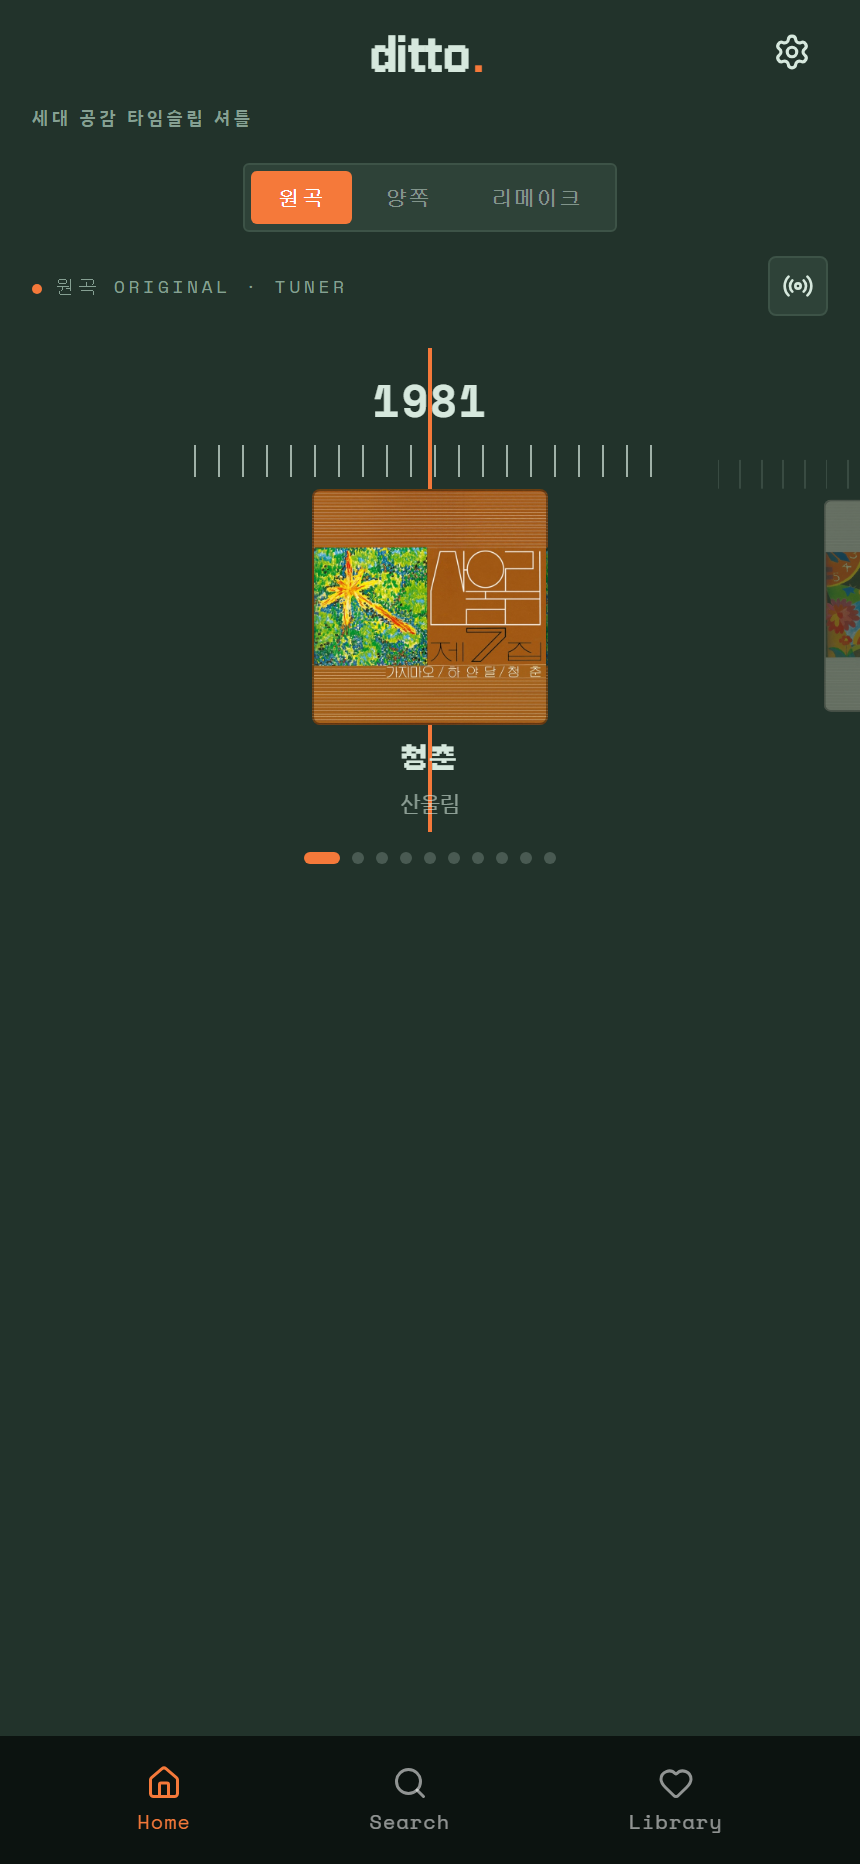
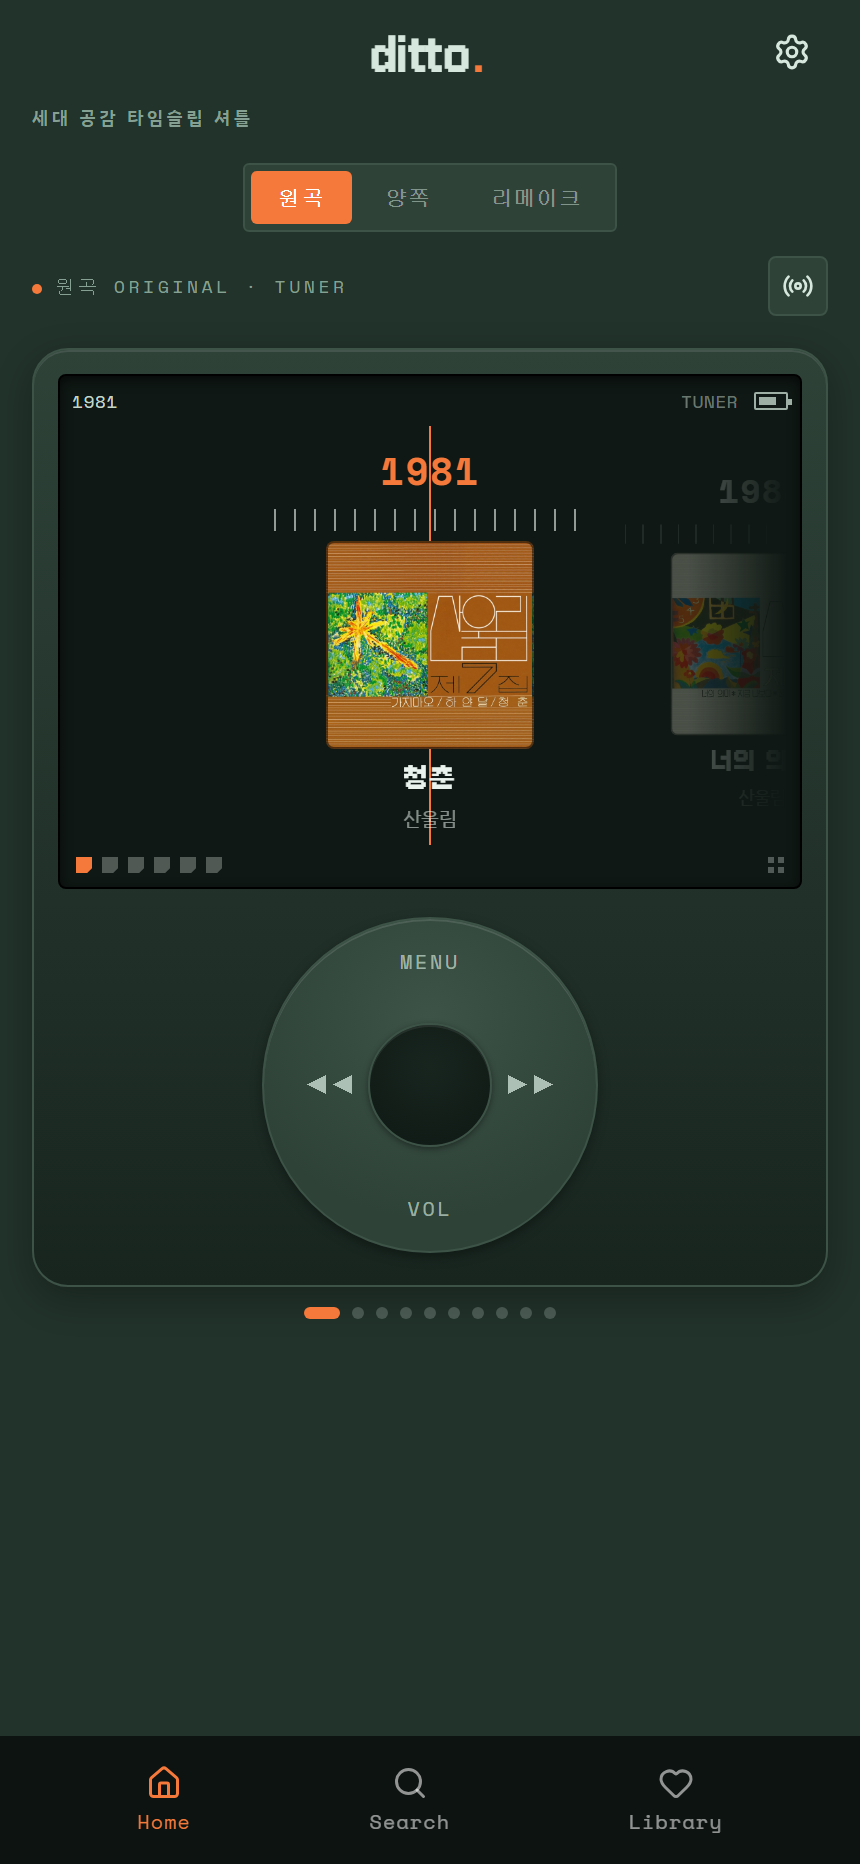
docs: MP3 기기 리디자인 기록 + 스크린샷 갱신
- '10. TUNER 를 휴대용 MP3 로' 절 추가. 왜 이 형태가 TUNER 의 은유를 보강하는지,
  왜 색은 빌리지 않았는지(INVERT 결정을 기기 하나 때문에 되돌릴 수 없다),
  MENU·VOL 을 장식으로 남긴 이유, 레일 중첩 구조 변경까지.
- rAF 버그를 '환경 탓'으로 넘길 뻔했던 과정도 남긴다 — 배경 탭에서 그대로
  재현되는 진짜 버그였다.
- 튜너·윈앰프 스크린샷 갱신.

Changed region(s): [[0.0605, 0.1867, 1.0, 0.5912], [0.3628, 0.6845, 0.6349, 0.7157], [0.4837, 0.6223, 0.514, 0.6534]]

diff --git a/MAKING-OF.md b/MAKING-OF.md
@@ -24,12 +24,12 @@
 ### 원곡 — RETRO
 
 같은 초록의 어두운 끝. 픽셀 서체(Galmuri), 각진 모서리, 그레인, 하드웨어 디테일.
-목록 레이아웃은 **WINAMP · TUNER 둘**이다.
+목록 레이아웃은 **TUNER(기본) · WINAMP 둘**이다.
 
-| 플레이어 | 튜너 |
+| 플레이어 | 튜너 — 휴대용 MP3 |
 |:--:|:--:|
 | <img src="docs/screenshots/02-player-retro.png" width="230"> | <img src="docs/screenshots/08-home-tuner.png" width="230"> |
-| 사각 페이더 캡 · 카세트 오버레이 | 연도가 곧 주파수 — 이 앱에서 가장 직접적인 시간 은유 |
+| 사각 페이더 캡 · 카세트 오버레이 | 바디에 파묻힌 LCD + 클릭휠. 연도가 곧 주파수 |
 
 ### WINAMP 스킨
 
@@ -423,7 +423,73 @@ chrome --headless=new --force-device-scale-factor=2
 
 ---
 
-## 10. 남은 것
+## 10. TUNER 를 휴대용 MP3 로
+
+TUNER 를 원곡 모드의 **기본** 레이아웃으로 올리면서, 실물 기기를 레퍼런스로 다시 그렸다.
+레퍼런스는 2000년대 중반 보급형 MP3 플레이어 — 아이팟 나노를 따라 만든 그 물건이다.
+알루미늄 바디에 작은 LCD 가 파묻히고, 그 아래 **클릭휠**이 붙는다.
+
+이 구조가 TUNER 와 잘 맞는 이유가 있다. 원래 TUNER 는 "연도 = 주파수"라는 은유였는데,
+평평한 가로 목록이라 다이얼이라는 느낌이 약했다. 클릭휠은 **튜닝 노브 그 자체**다.
+빌린 형태가 원래 있던 은유를 보강한다.
+
+```
+┌──────────────────────────┐
+│ ┌──────────────────────┐ │  ← 파묻힌 LCD
+│ │ 1981      TUNER  ▮▮  │ │     상태바: 지금 맞춰진 연도 · 배터리 각인
+│ │        1981          │ │
+│ │    ‖‖‖‖‖│‖‖‖‖‖       │ │     주파수 눈금 + 중앙 고정 바늘
+│ │      [아트워크]       │ │
+│ │      청춘 / 산울림     │ │
+│ │ ▮▯▯▯▯▯            ⠿ │ │     픽셀 아이콘 줄 (장식)
+│ └──────────────────────┘ │
+│          MENU            │
+│        ╭────────╮        │
+│    ◀◀  │   ●    │  ▶▶    │  ← 클릭휠
+│        ╰────────╯        │
+│           VOL            │
+└──────────────────────────┘
+```
+
+**색은 빌리지 않았다.** 실물은 은색 알루미늄이지만 여기서는 ditto 팔레트를 쓴다 —
+WINAMP 때 세운 원칙 그대로다(형태는 빌리고 색은 우리 것). RETRO 를 INVERT 로 정한 게
+셔틀 전환을 색으로 보이게 하려던 결정이라, 기기 하나 때문에 되돌릴 수는 없다.
+
+동작:
+
+- **◀◀ ▶▶ 은 진짜로 돈다.** 연도를 한 칸씩 옮긴다.
+- **가운데 버튼은 재생.** 지금 맞춰진 곡을 연다.
+- **MENU · VOL 은 각인이다.** 실물에 있는 글자라 남겼지만 동작하지 않는다.
+  WINAMP 의 EQ 슬라이더와 같은 취급 — 기기를 기기답게 만드는 장식.
+
+LCD 양옆에는 마스크로 페이드를 걸었다. 이웃 방송국이 베젤에 딱 잘리면
+'잘린 글자'로 보이는데, 다이얼은 흘러가야 다이얼이다.
+
+### 레일 구조를 바꿨다
+
+전까지 `#pair-list` 자체가 스크롤 레일이었다. 이제 레일이 LCD 안에 **중첩**돼야 해서
+TWIN 과 같은 방식으로 바꿨다 — 안쪽 레일에 `attachRail()` 을 직접 걸고,
+`#pair-list` 가 레일인 레이아웃은 캐러셀 하나만 남겼다.
+인디케이터 점도 어느 레일을 움직일지 인자로 받게 고쳤다.
+
+### 덤으로 잡은 버그: rAF 가 멈추면 레일이 영영 죽는다
+
+휠 버튼이 눌리는데 다이얼이 안 도는 걸로 보였다. 파보니 `railScrollTo()` 의 관성
+글라이드가 **`requestAnimationFrame` 에만 의존**하고 있었다.
+
+rAF 는 탭이 배경으로 가거나 화면이 합성되지 않으면 아예 돌지 않는다. 그러면
+글라이드가 중간에 멈춘 채 `glideRaf` 가 영영 남고, 스크롤 동기화의 `syncPending` 도
+안 풀려서 **그 뒤 모든 조작이 죽는다.** 캐러셀·트윈도 같은 코드를 쓰니 같은 조건이었다.
+
+타이머로 한 번 더 받쳐 어떤 경우에도 도착을 보장하게 고쳤다.
+느낌(ease-out 곡선)은 그대로 두고, rAF 가 돌면 원래대로 굴러가고 안 돌면 타이머가 착지시킨다.
+
+> 처음에는 "브라우저 패널이 안 그려져서 그런 것"이라고 넘길 뻔했다. 환경 탓처럼 보이는
+> 증상이 실제로는 배경 탭에서도 그대로 재현되는 진짜 버그였다.
+
+---
+
+## 11. 남은 것
 
 - **WINAMP 인광 앰버 안** — 결정 대기 (3번 참조).
 - `SIGNAL POWER ▂▅▇▅` — 재생 컨트롤과 셔틀 콘솔 사이에서 자리만 차지하는 장식.
